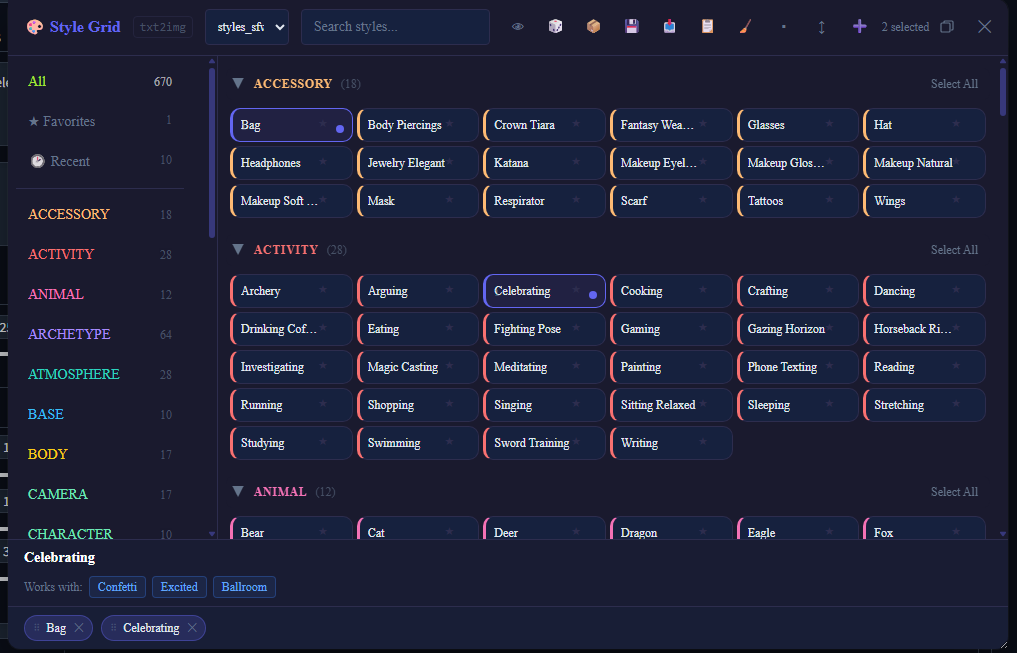
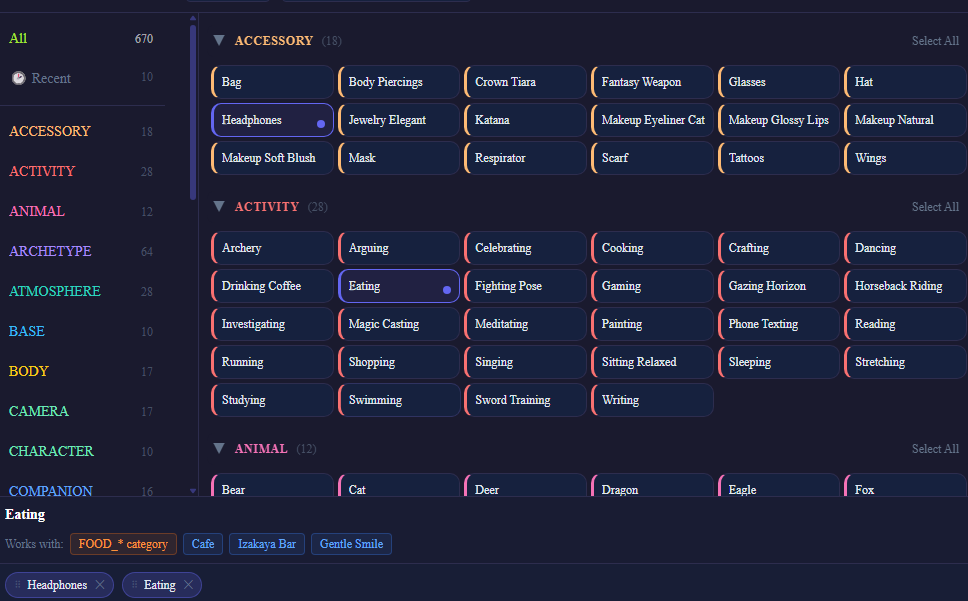
chore: update documentation and refine UI interactions
- Expanded README with details on workflows, wildcards compatibility, search functionality, fullscreen mode, img2img support, and testing notes.
- Updated `docs/screenshots/README.md` to include a checklist for refreshing PNGs when the UI changes.
- Removed inline favorite star control from V2 style cards, allowing favorites to be managed via the context menu to reduce UI clutter.
- Enhanced the SearchBar component to filter styles based on the selected source, improving search accuracy and user experience.

diff --git a/ui/src/components/SearchBar.tsx b/ui/src/components/SearchBar.tsx
@@ -7,14 +7,21 @@ import {
 import { Popover, PopoverContent, PopoverAnchor } from './ui/popover'
 
 export function SearchBar() {
-  const { styles, search, setSearch, toggleStyle, selectedStyles } = useStylesStore()
+  const { styles, activeSource, search, setSearch, toggleStyle, selectedStyles } = useStylesStore()
   const [open, setOpen] = useState(false)
   const [inputValue, setInputValue] = useState(search)
   const inputRef = useRef<HTMLInputElement>(null)
 
-  // Autocomplete suggestions - top 8 matches by name
+  // Autocomplete suggestions:
+  // - specific source selected: search only in that CSV
+  // - All Sources selected: search across all loaded styles
+  const searchableStyles = activeSource
+    ? styles.filter(s => s.source_file === activeSource)
+    : styles
+
+  // Top 8 matches by name
   const suggestions = inputValue.length > 0
-    ? styles
+    ? searchableStyles
         .filter(s => s.name.toLowerCase().includes(inputValue.toLowerCase()))
         .slice(0, 8)
     : []

diff --git a/docs/screenshots/README.md b/docs/screenshots/README.md
@@ -1,0 +1,25 @@
+# Screenshots for `README.md`
+
+Images in this folder are referenced from the root **`README.md`**. After UI changes, replace files here and keep the **same filename** so links stay valid.
+
+## When to refresh (current UI)
+
+**Tiles no longer show a favorite star** — favorites are only toggled from the **style card context menu** (right‑click → Add/Remove Favorites). Any screenshot that still shows `★` on cards is outdated.
+
+| Priority | File | What to capture |
+|----------|------|-----------------|
+| 1 | `browse-and-filter.png` | Main grid + sidebar + source dropdown — cards **without** stars. |
+| 2 | `apply-and-reorder.png` | Selected styles + bottom bar with chips. |
+| 3 | `favorites-in-category.png` | A normal category view; cards have **no** stars (favorites are in the sidebar filter / context menu only). |
+| 4 | `favorites-view.png` | **Favorites** selected in the sidebar; grid of favorited styles. |
+| 5 | `recent-styles.png` | **Recent** in the sidebar. |
+| 6 | `img2img-support.png` | Style Grid open on **img2img** tab (if layout differs from txt2img). |
+| 7 | `search-autocomplete.png` | Search with autocomplete dropdown open. |
+| 8 | `thumbnail-hover-preview.png` | Hover popup with thumb + prompt snippet. |
+| 9 | `fullscreen-mode.png` | Fullscreen toggle result — edge‑to‑edge panel. |
+
+**Usually still valid** (no stars on tiles): `style-card-context-menu.png`, `category-context-wildcard-previews*.png`, `top-bar-icons.png` — re-shoot only if those UIs change.
+
+---
+
+**For maintainers:** ask the user to attach new PNGs when README text no longer matches what’s on screen; save under the names above and run `cd ui && npm run build` after code changes (not required for image-only updates).

diff --git a/CHANGELOG.md b/CHANGELOG.md
@@ -17,13 +17,14 @@ The format is based on [Keep a Changelog](https://keepachangelog.com/en/1.1.0/).
 - Style Grid host ↔ frame messaging flow refactored to SG_* postMessage contract and on-demand re-init/update pushes (`589ca79`, `e6276da`).
 - Sidebar/category behavior refined for per-source ordering logic and All Sources fallback handling (`6c2e8e4`, `af23d07`).
 - `docs/API.md` backend route definitions now originate from modular backend route registration (`scripts/stylegrid/routes.py`) instead of monolithic script split assumptions.
+- **Documentation:** README expanded (workflows, wildcards compatibility, search, fullscreen, img2img, testing notes); `docs/screenshots/README.md` lists which PNGs to refresh when the UI changes.
+
+### Removed
+- **V2 style cards:** inline favorite star control removed from tiles — add/remove **Favorites** only via the **style card context menu** (right‑click), reducing clutter and freeing space for labels.
 
 ### Fixed
 - Improved iframe close/escape behavior and minimized accidental host/page interaction conflicts while V2 panel is open (`930f6b6`, `72c77f2`).
 - Fixed several V2 synchronization issues after backend refresh/update flows (`e6276da`, `589ca79`).
-
-### Removed
-- None.
 
 ### Security
 - None.
